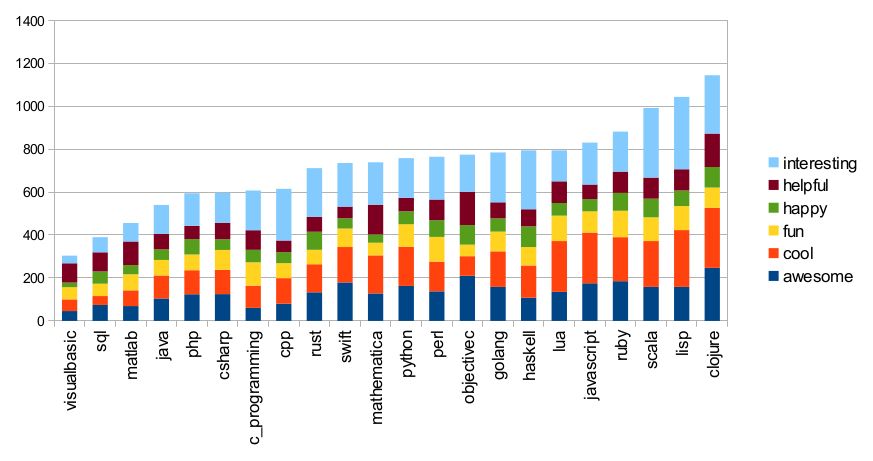
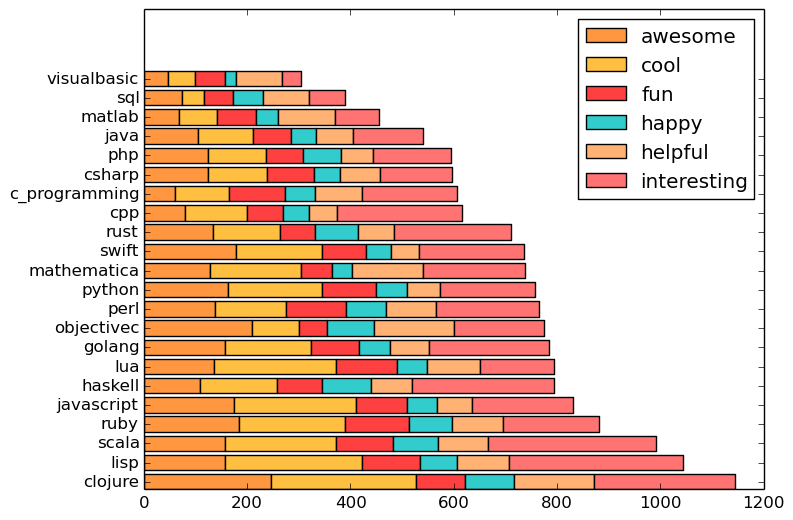
nicer graphs with pyplot

diff --git a/crawl.py b/crawl.py
@@ -9,14 +9,17 @@ __version__ = '1.0.0'
 
 from collections import Counter
 import datetime
+import csv
 import cPickle
 import functools
+import pprint
 import operator
 import os
 import re
 import sqlite3
 import subprocess
-
+import numpy as np
+import matplotlib.pyplot as plt
 
 languages = [
     ('actionscript', ['actionscript']),
@@ -481,10 +484,13 @@ def cache_subreddit_comment_counts():
     conn.close()
 
 def print_table(table):
+    result = ""
     for row in table:
         for cell in row:
-            print cell,
-        print
+            result += cell + ","
+        result = result[:-1]
+        result += "\n"
+    return result
 
 def relative_word_count(c, subreddit, word):
     command =\
@@ -546,7 +552,7 @@ def who_by_whom(c):
             AND cached_subreddit_comment_counts.cnt > 100\
         ORDER BY result DESC'
     c.execute(command)
-    print_table(c.fetchall())
+    write_str_to_file("analysis/who_by_whom.csv", print_table(c.fetchall()))
 
 def who_himself(c):
     print 'who mentions himself the most often relative to own comment count'
@@ -558,7 +564,7 @@ def who_himself(c):
             AND cached_mutual_mentions.mentioner == cached_mutual_mentions.mentionee\
         ORDER BY result DESC, mentionee'
     c.execute(command)
-    print_table(c.fetchall())
+    write_str_to_file("analysis/who_himself.csv", print_table(c.fetchall()))
 
 def who_by_others(c):
     print 'who is mentioned how often by others relative to all others comment count'
@@ -571,7 +577,7 @@ def who_by_others(c):
         GROUP BY mentionee\
         ORDER BY result DESC'
     c.execute(command)
-    print_table(c.fetchall())
+    write_str_to_file("analysis/who_by_others.csv", print_table(c.fetchall()))
 
 def count_word_mentions(c):
     big_subreddits = filter(functools.partial(isSubredditBig, c), subreddits)
@@ -600,13 +606,104 @@ def analyse_comments():
 
     conn.close()
 
+def draw_word_mentions(name, columns, colors, sorted_by_sum, filename):
+    reader = csv.DictReader(open('analysis/' + name + '.csv'))
+
+    output = []
+    for row in reader:
+        #print row
+        d = {}
+        for col in columns + ['subreddit']:
+            d[col] = row[col]
+        output.append(d)
+
+    def dict_sum(d):
+        c = d.copy();
+        c.pop('subreddit')
+        return sum(map(int,c.values()))
+
+
+    if sorted_by_sum:
+        output.sort(key=lambda x: dict_sum(x), reverse = True)
+    else:
+        output.sort(key=lambda x: x['subreddit'], reverse = True)
+
+    subreddits = []
+    dataset = []
+    for row in output:
+        subreddit = row['subreddit']
+        subreddits.append(subreddit)
+        dataset_row = {}
+        counts = []
+        for column in columns:
+            dataset_row[column] = int(row[column])
+        dataset.append(dataset_row)
+    print dataset
+
+    data_orders = [columns] * len(subreddits)
+
+    names = sorted(dataset[0].keys())
+
+    values = np.array([[data[name] for name in order] for data,order in zip(dataset, data_orders)])
+    lefts = np.insert(np.cumsum(values, axis=1),0,0, axis=1)[:, :-1]
+    orders = np.array(data_orders)
+    bottoms = np.arange(len(data_orders))
+
+    for name, color in zip(names, colors):
+        idx = np.where(orders == name)
+        value = values[idx]
+        left = lefts[idx]
+        plt.bar(left=left, height=0.8, width=value, bottom=bottoms,
+                color=color, orientation="horizontal", label=name)
+    plt.yticks(bottoms+0.4, subreddits)
+    plt.legend(loc="best", bbox_to_anchor=(1.0, 1.00))
+
+    #plt.subplots_adjust(right=0.95)
+    #plt.subplots_adjust(left=1.85)
+    plt.savefig('img/' + filename + '.png', bbox_inches='tight')
+    #plt.show()
+    plt.close()
+
+def draw_graphs():
+    # colors from http://colorschemedesigner.com/csd-3.5/
+    draw_word_mentions('cursing',
+        ['crap', 'fuck', 'hate', 'shit'],
+        ['#66A3D2', '#7373D9', '#61D7A4', '#FFC373'],
+        True,
+        'cursing')
+
+    draw_word_mentions('happy',
+        ['awesome', 'cool', 'fun', 'happy', 'helpful', 'interesting'],
+        ['#FF9640', '#FFBF40', '#FF4040', '#33CCCC', '#FFB273', '#FF7373'],
+        True,
+        'happy')
+
+    draw_word_mentions('words',
+        ['abstract', 'category', 'pure', 'theory'],
+        ['#FF7373', '#FFB273', '#5CCCCC', '#67E667'],
+        True,
+        'abstract_concepts')
+
+    draw_word_mentions('words',
+        ['hardware'],
+        ['#5CCCCC'],
+        True,
+        'hardware')
+
+    draw_word_mentions('words',
+        ['nerd'],
+        ['#67E667'],
+        True,
+        'nerd')
+
 def main():
     #get_comments()
     #get_submission_ids()
     #pickle_comments()
     #comments_to_db()
     #cache_db_results()
-    analyse_comments()
+    #analyse_comments()
+    draw_graphs()
 
 if __name__ == '__main__':
     main()
